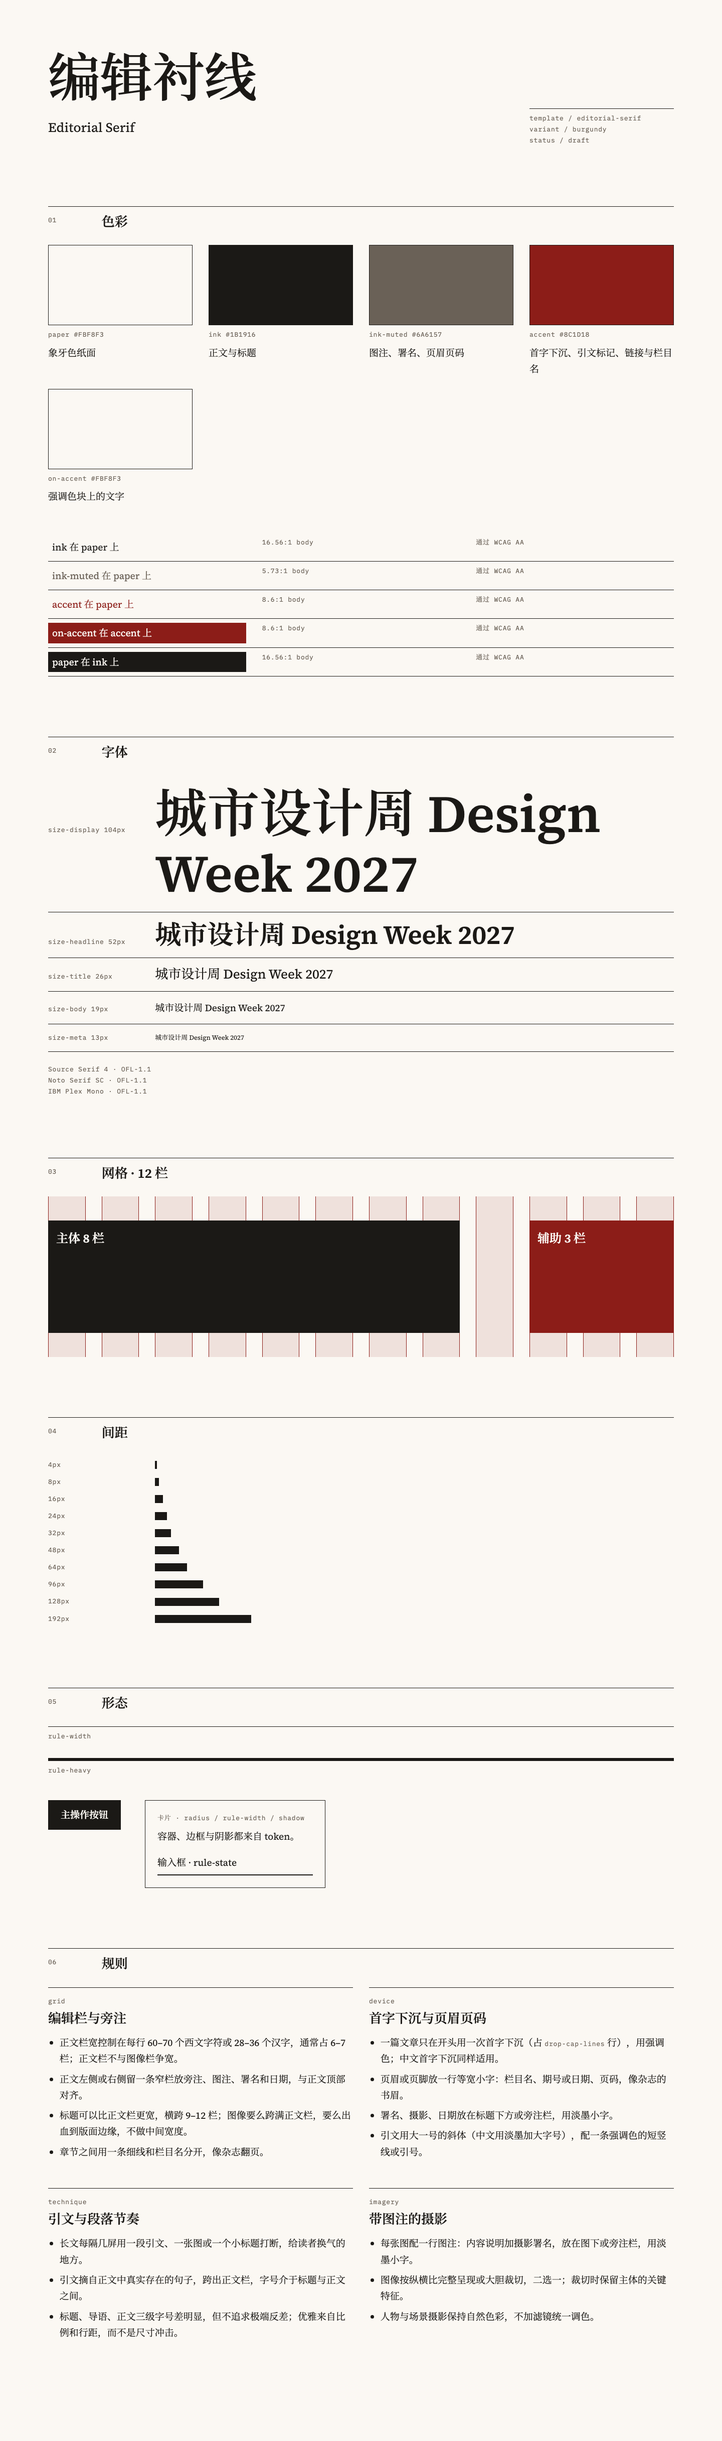
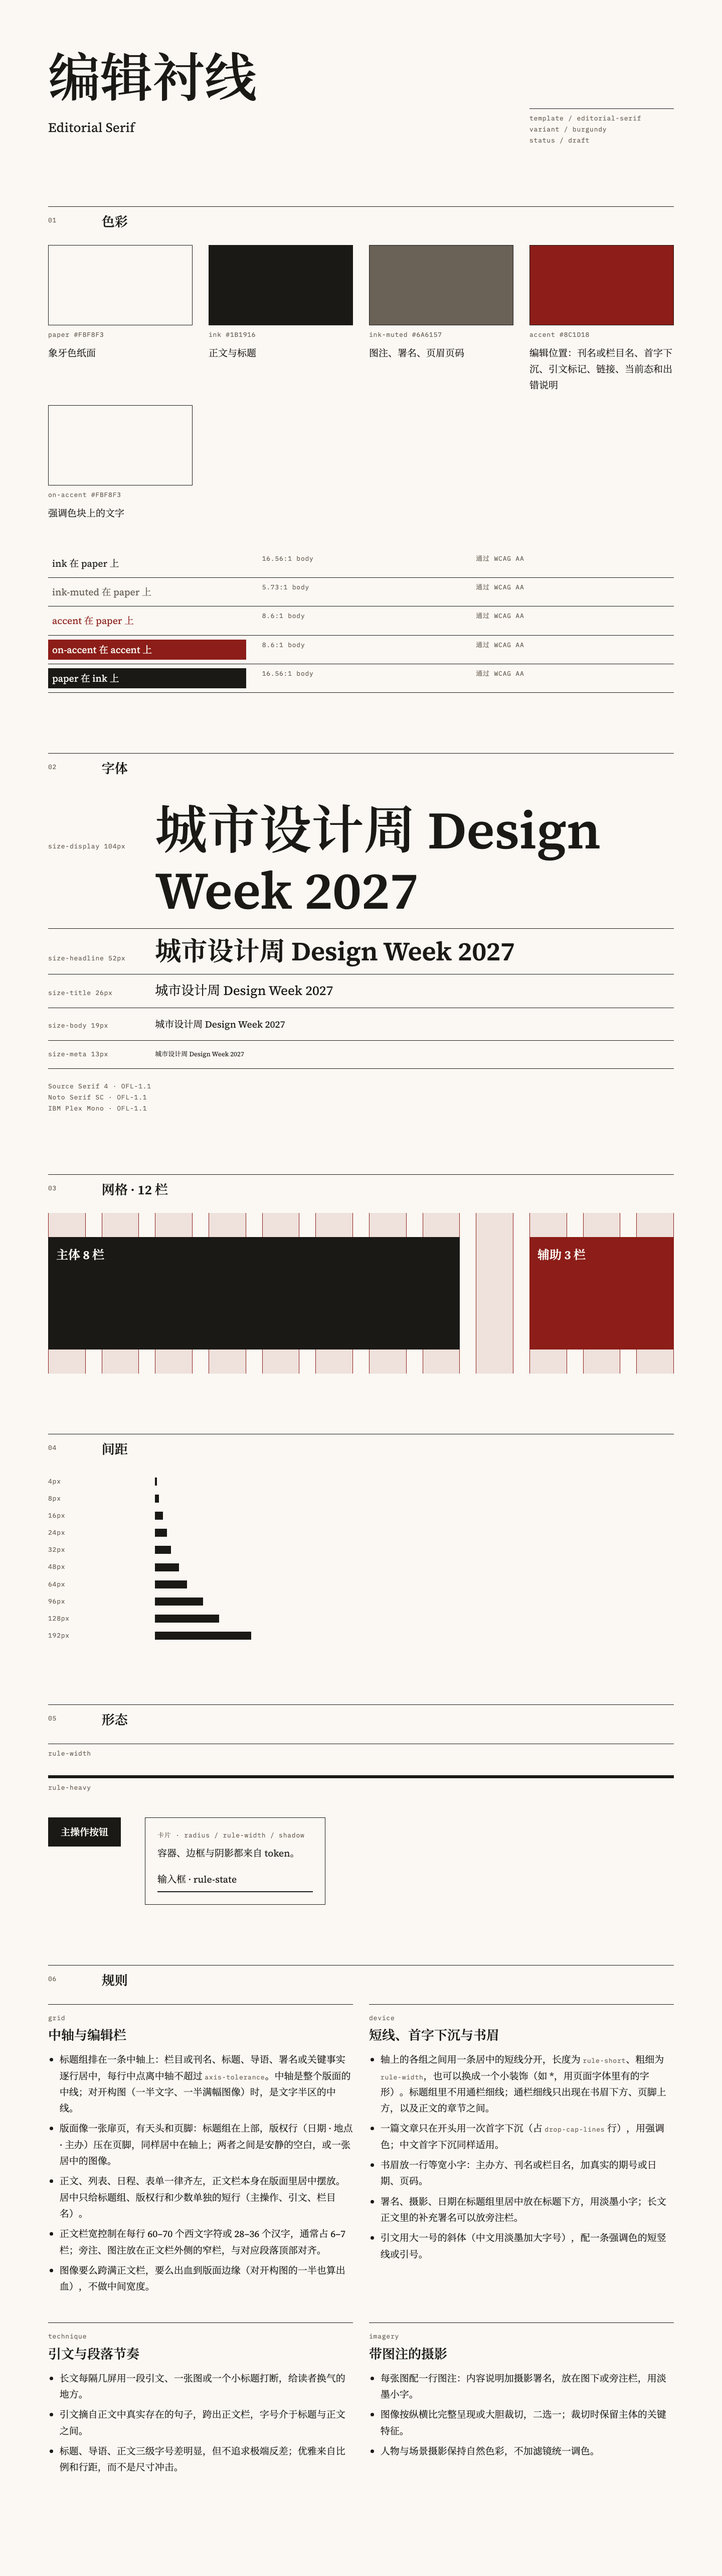
feat(musekit): give editorial-serif a centred title-page layout
With colour removed, the editorial posters and first screens matched
Neo-Swiss line for line: a flush-left title across the columns, a side
column of metadata and a ruled fact row at the foot. The style's
editorial devices only appeared in long text, which posters and first
screens do not have.

The layout now follows the classical title page, the axis the Swiss
tradition set itself against. The title group (title, deck, credit or
host) is centred line by line within axis-tolerance on the page axis,
or on the text half of a split spread. An imprint line of date and
place sits at the foot on the same axis. Short centred rules
(rule-short) separate the groups, with no full-width rules inside the
title group. Body text, lists, schedules and forms stay flush left in a
centred column, so the page never becomes a generic centred landing
page.

Titles use size-display, breaking onto at most three centred lines
instead of being stretched with fit. Posters carry no body text,
invented quotes or drop caps, and leave no image slot when there is no
photo. Accent positions are one shared list, focus and error states
look different, and the mobile line length and imprint wrapping are
spelled out. The grid seed declares conflicts with ma-interval,
index-and-rule and sticker-label, and an axis-led exemplar is added.

diff --git a/plugins/musekit/skills/musepool/library/templates/editorial-serif.md b/plugins/musekit/skills/musepool/library/templates/editorial-serif.md
@@ -44,25 +44,31 @@ overrides:
         size-headline: 32px
         size-title: 22px
         size-body: 18px
-exemplars: [B3LYgTWe, rvYJrbZh, G26LBSOO]
+exemplars: [C4aZtWoH, B3LYgTWe, rvYJrbZh, G26LBSOO]
 ---
 
 # 编辑衬线
 
 ## 精神
 
-像一本好杂志那样组织页面：标题有分量，正文好读，图像和图注各就其位。优雅来自比例、行距和衬线体的质感，而不是装饰。适合需要被认真阅读的内容：文化活动、出版物、研究报告、长篇叙事。
+像一本好杂志或一本书的扉页那样组织页面：标题组沿一条中轴排开，版权信息压在页脚，正文好读，图像和图注各就其位。优雅来自比例、行距和衬线体的质感，而不是装饰或极端尺寸。适合需要被认真阅读的内容：文化活动、出版物、研究报告、长篇叙事。编辑排版并不都居中；这里选中轴这一支，是因为它与齐左、不对称的瑞士传统分得开。
 
 ## 文法
 
-- **网格**：12 栏，正文栏宽 6–7 栏并控制行长，旁边留一条窄栏放旁注、图注与署名；标题可以比正文更宽。
-- **对齐**：标题与正文共享左边线；旁注与它对应的段落顶部对齐。
-- **层级**：标题、导语、正文三级清楚；导语用斜体（中文用淡墨与更大行距）；字重只用常规与半粗。
-- **留白**：段落之间用正常段距，章节之间用一条细线和栏目名，像翻页一样明确。
-- **色彩**：象牙纸面与近黑墨色承担阅读；强调色出现在固定的编辑位置：栏目名、首字下沉、引文标记、链接。
-- **装置**：首字下沉（每篇一次）、书眉式的页眉页码、署名行、引文。
-- **图像**：带图注的摄影，完整或大胆裁切二选一；没有照片时，用一段真实引文或目录占据图像的位置。
-- **状态**：表单像订阅卡：标签用小号等宽字，输入框只有底线；出错时底线加粗到 `rule-state`，下方写一行强调色说明；完成后用一段斜体的确认文字替换表单。
+版式有三条必须同时成立的规则，去掉颜色后，靠它们认出这个风格：
+
+1. **中轴标题组**：栏目或刊名、标题、导语、署名或关键事实逐行居中，每行中点离中轴不超过 `axis-tolerance`。
+2. **天头与页脚**：标题组在版面上部，版权行（日期 · 地点 · 主办）压在页脚，同在轴上。
+3. **短线分组**：轴上各组之间用长 `rule-short` 的居中短线或一个小装饰分开，标题组里没有通栏细线。
+
+- **网格**：中轴是整个版面的中线；对开构图（一半文字、一半满幅图像）时，是文字半区的中线。正文栏占 6–7 栏，在版面里居中摆放，旁注放在正文栏外侧的窄栏。
+- **对齐**：在轴上居中的只有这些：标题组、主操作（只有一个）、居中引文、章节开头的栏目名、完成态的确认文字和版权行。正文、列表、日程、表单一律齐左。书眉可以整行居中，也可以两端对齐。
+- **层级**：标题、导语、正文三级清楚；标题直接用 `size-display`，不用 `fit` 撑满栏宽；放不下时居中断成两行，两行仍放不下（约 14 个汉字以上）改用 `size-headline`，最多三行；导语用 `size-title` 的斜体（中文用淡墨与更大行距）；导语第一行是活动名时可以用墨色，其后的说明句用淡墨；字重只用常规与半粗。
+- **留白**：天头与页脚之间的空白是版面的一部分；段落之间用正常段距，章节之间用一条细线和居中的栏目名。
+- **色彩**：象牙纸面与近黑墨色承担阅读；强调色只出现在固定的编辑位置：刊名或栏目名、首字下沉、引文标记、链接、当前态和出错说明。标题保持墨色。海报只用一处，网页每屏（按视口高度计）最多两处。
+- **装置**：居中短线、书眉（主办方、刊名或栏目名，加真实的日期或期号，不重复标题）、署名行、首字下沉（只在长文开头用一次，海报不用）、引文。通栏细线的宽度是版心宽，即左右 `margin` 之间。
+- **图像**：带图注的摄影，完整或大胆裁切二选一；有照片时可以做对开构图，也可以把照片居中放在天头与页脚之间。没有照片时不留图像位。
+- **状态**：表单像订阅卡：标签用小号等宽字，输入框只有底线，表单本身齐左；聚焦时整个输入框加 `rule-state` 的墨色描边框；出错时底线加粗到 `rule-state`，下方写一行强调色说明，聚焦与出错因此形态不同；完成后用一段居中的斜体确认文字替换表单。
 
 ## 场景适配
 
@@ -70,30 +76,31 @@ exemplars: [B3LYgTWe, rvYJrbZh, G26LBSOO]
 
 海报、封面、社媒图。覆盖值按 1080 × 1440 的画布给出（`canvas-width`、`canvas-height`）。
 
-- 版面像杂志封面：顶部一行书眉（刊名或活动名、期号或日期），标题占据上半部分并可以比正文宽，导语用斜体紧跟其后。
-- 有摄影时，图像占画面一半以上，标题叠在图像安静的区域或放在图像下方；没有摄影时，标题与一段真实引文承担画面。
-- 日期、地点、主办方排在底部的一行或两行等宽小字里，上方一条细线。
-- 强调色只用在刊名、首字或一个关键词上。
-- 标题字号直接用 `size-display`，不用 `fit` 撑满栏宽；编辑风格的分量来自比例和留白，不来自极端尺寸。
+- 版面是一张扉页：顶部一行书眉（主办方或栏目名，加真实的日期或期号），下方一条通栏细线；标题组的中心落在画布高度的三分之一到一半之间，沿画布中轴排开：标题、短线、斜体导语、短线、主办或署名。
+- 页脚一行版权信息，居中，上方一条通栏细线：日期 · 地点；标题组里没有主办时，加上主办。同一条事实不在书眉、标题组和页脚重复出现。版权行用 `font-mono`，其中的中文回退到宋体，这是预期的。社媒图在手机上约按 0.35 倍显示，所以海报的书眉和版权行用 `size-body`，不用 `size-meta`。
+- 有照片时，照片跨满正文栏宽、居中放在标题组与页脚之间，配一行居中图注；或者做对开构图：照片占一半出血，标题组和页脚沿另一半的中轴排。
+- 没有照片时，标题组与页脚之间是空白，不放占位图；有用户提供的原文时，可以在空白中部居中放一句引文。
+- 海报不排正文段落，也不用首字下沉。强调色只用在书眉的刊名或主办方一处。
 
 ### web
 
 官网、出版物、文章页。参照视口 1440 × 900px。
 
-- 首屏：书眉式导航（站名在左，栏目链接在右，一行小字），标题用 `size-display`，占 9–10 栏的宽度范围，下方斜体导语和署名行；关键日期与地点放在旁注栏。
-- 正文页：正文栏 6–7 栏居左或略偏左，旁注栏在右；首字下沉一次；每隔几屏用引文或图像打断。
-- 列表（日程、文章目录）用细线分隔的行：标题衬线体，日期与分类等宽小字。
-- 首屏以下像翻杂志：每一章以「细线 + 栏目名」开头，交替使用三种版式——正文加旁注、通栏引文、两栏目录或日程，避免一节接一节的同一种长页。
-- 主操作用墨底纸字按钮或强调色文字链接加下划线，不用圆角胶囊。
-- 1100px 以下：旁注栏收窄为 3 栏，首屏旁注仍在右侧，保证首屏能看到日期和主操作。
-- 窄屏退为 4 栏：首屏旁注里的日期、地点和主操作移到标题与导语之下，仍在首屏内；正文里的旁注移到对应段落之后；正文字号保持 18px 以上（`mobile` 断点给出）。
+- 书眉式导航：站名居中，栏目链接排在站名下方一行，或分在站名两侧，下方一条通栏细线。
+- 首屏是一张扉页：标题组沿页面中轴排开（栏目、标题、短线、斜体导语、署名），主操作只有一个，居中放在标题组下方：页面有表单时是跳到表单的墨底纸字按钮，否则是一个带下划线的强调色文字链接；首屏底部一行居中的版权行（日期 · 地点 · 主办）。有照片时可以做对开构图，标题组和版权行沿文字半区的中轴排。
+- 首屏以下像翻书：每一章以「通栏细线 + 居中的栏目名 + 短线」开头，章节内容齐左排在居中的正文栏里；按已有的内容交替使用三种版式：正文加旁注、居中的通栏引文、两栏目录或日程。没有原文就不排引文，没有日程就不排日程，不为凑版式编内容。
+- 列表（日程、文章目录）用细线分隔的行，齐左：标题衬线体，日期与分类等宽小字。
+- 表单齐左排在正文栏里，完成态居中。
+- 1100px 以下：正文栏放宽到 8 栏，仍居中，旁注移到对应段落之前；标题组和版权行保持在中轴上。
+- 窄屏退为 4 栏：正文栏跨满 4 栏，行长以正文字号不小于 18px 为先，不再要求每行 28 字；版权行可以按事实断成最多三行，仍居中；标题组仍沿中轴居中，标题按 `mobile` 断点缩小、可以断成两到三行；对开构图改为照片在上、标题组在下；正文字号保持 18px 以上。
 
 ## 常见误用
 
-只把字体换成衬线体、其余仍是卡片网格和圆角按钮，不是编辑风格；正文行长过宽、行距过紧会让「优雅」变成难读；处处用强调色、到处首字下沉会显得廉价。判断方法：去掉颜色后，仍应能看出清楚的标题、导语、正文三级和像杂志一样的栏位。
+最常见的退化有两种。一是只换成衬线字体，标题仍然齐左跨栏、右侧放旁注栏和元数据，去色后就是新瑞士。二是把一切居中，包括正文、列表和按钮堆，变成通用的居中营销页，也难读。处处用强调色、到处首字下沉会显得廉价。判断方法：去掉颜色后，仍应能看出一条中轴上的标题组、页脚的版权行和组间的短线；正文仍然齐左。
 
 ## 范例
 
-- `B3LYgTWe` 艺术中心：暖奶油底色上的衬线大标题，8/4 栏的不对称主栏与侧栏。看它怎样用衬线体同时承担标题与正文。
-- `rvYJrbZh` 艺术家作品集：粗斜体标题加正文的连续文字流，像在读一份宣言。看它怎样只靠排印建立层级。
-- `G26LBSOO` 研究报告：Didone 衬线展示字、编号章节和整块的强调色。看它怎样把编辑排版用于研究内容。
+- `C4aZtWoH` 艺术学院展览：视力表式的居中字号阶梯，配衬线正文和斜体标签。借它沿中轴递减的字号层级；它的展示字是无衬线，不借。
+- `B3LYgTWe` 艺术中心：暖奶油底色上的衬线大标题，8/4 栏的不对称主栏与侧栏。借它长文里正文栏与侧栏的关系；它的首屏是齐左构图，不借。
+- `rvYJrbZh` 艺术家作品集：粗斜体标题加正文的连续文字流，像在读一份宣言。借它只靠排印建立层级的做法。
+- `G26LBSOO` 研究报告：Didone 衬线展示字、编号章节和整块的强调色。借它把编辑排版用于研究内容的章节组织；整块强调色不借。

diff --git a/plugins/musekit/skills/musepool/library/seeds/grid/editorial-columns.md b/plugins/musekit/skills/musepool/library/seeds/grid/editorial-columns.md
@@ -2,11 +2,11 @@
 id: editorial-columns
 category: grid
 nature: rule
-name: 编辑栏与旁注
+name: 中轴与编辑栏
 status: draft
 scenes: [graphic, web, slides, data]
 affinity: [editorial-serif, editorial]
-conflicts: []
+conflicts: [ma-interval, index-and-rule, sticker-label]
 tokens:
   canvas-width:
     value: 1440px
@@ -20,17 +20,21 @@ tokens:
     value: 32px
   margin:
     value: 96px
+  axis-tolerance:
+    value: 0.02
+    role: 轴上每一行的中点离所在版面中轴的最大偏差，按版面宽度计
 ---
 
-# 编辑栏与旁注
+# 中轴与编辑栏
 
 ## 要点
 
-- 正文栏宽控制在每行 60–70 个西文字符或 28–36 个汉字，通常占 6–7 栏；正文栏不与图像栏争宽。
-- 正文左侧或右侧留一条窄栏放旁注、图注、署名和日期，与正文顶部对齐。
-- 标题可以比正文栏更宽，横跨 9–12 栏；图像要么跨满正文栏，要么出血到版面边缘，不做中间宽度。
-- 章节之间用一条细线和栏目名分开，像杂志翻页。
+- 标题组排在一条中轴上：栏目或刊名、标题、导语、署名或关键事实逐行居中，每行中点离中轴不超过 `axis-tolerance`。中轴是整个版面的中线；对开构图（一半文字、一半满幅图像）时，是文字半区的中线。
+- 版面像一张扉页，有天头和页脚：标题组在上部，版权行（日期 · 地点 · 主办）压在页脚，同样居中在轴上；两者之间是安静的空白，或一张居中的图像。
+- 正文、列表、日程、表单一律齐左，正文栏本身在版面里居中摆放。居中只给标题组、版权行和少数单独的短行（主操作、引文、栏目名）。
+- 正文栏宽控制在每行 60–70 个西文字符或 28–36 个汉字，通常占 6–7 栏；旁注、图注放在正文栏外侧的窄栏，与对应段落顶部对齐。
+- 图像要么跨满正文栏，要么出血到版面边缘（对开构图的一半也算出血），不做中间宽度。
 
 ## 适用与边界
 
-需要并排比较的内容（日程、价格）可以打破正文栏宽，但仍对齐到栏线上。
+居中只给短行：每一组不超过三行，超过三行的文字不居中。需要并排比较的内容（日程、价格）可以打破正文栏宽，但仍对齐到栏线上。海报和首屏不排正文段落，只有标题组和版权行。

diff --git a/plugins/musekit/skills/musepool/library/seeds/device/drop-cap-and-folio.md b/plugins/musekit/skills/musepool/library/seeds/device/drop-cap-and-folio.md
@@ -2,7 +2,7 @@
 id: drop-cap-and-folio
 category: device
 nature: rule
-name: 首字下沉与页眉页码
+name: 短线、首字下沉与书眉
 status: draft
 scenes: [graphic, web, slides]
 affinity: [editorial-serif]
@@ -11,15 +11,19 @@ tokens:
   drop-cap-lines:
     value: 3
     role: 首字下沉占几行
+  rule-short:
+    value: 48px
+    role: 轴上分组用的居中短线长度
 ---
 
-# 首字下沉与页眉页码
+# 短线、首字下沉与书眉
 
 ## 要点
 
+- 轴上的各组之间用一条居中的短线分开，长度为 `rule-short`、粗细为 `rule-width`，也可以换成一个小装饰（如 *，用页面字体里有的字形）。标题组里不用通栏细线；通栏细线只出现在书眉下方、页脚上方，以及正文的章节之间。
 - 一篇文章只在开头用一次首字下沉（占 `drop-cap-lines` 行），用强调色；中文首字下沉同样适用。
-- 页眉或页脚放一行等宽小字：栏目名、期号或日期、页码，像杂志的书眉。
-- 署名、摄影、日期放在标题下方或旁注栏，用淡墨小字。
+- 书眉放一行等宽小字：主办方、刊名或栏目名，加真实的期号或日期、页码。
+- 署名、摄影、日期在标题组里居中放在标题下方，用淡墨小字；长文正文里的补充署名可以放旁注栏。
 - 引文用大一号的斜体（中文用淡墨加大字号），配一条强调色的短竖线或引号。
 
 ## 适用与边界

diff --git a/plugins/musekit/skills/musepool/library/seeds/color/ivory-burgundy.md b/plugins/musekit/skills/musepool/library/seeds/color/ivory-burgundy.md
@@ -19,7 +19,7 @@ tokens:
     role: 图注、署名、页眉页码
   accent:
     value: "#8C1D18"
-    role: 首字下沉、引文标记、链接与栏目名
+    role: 编辑位置：刊名或栏目名、首字下沉、引文标记、链接、当前态和出错说明
   on-accent:
     value: "#FBF8F3"
     role: 强调色块上的文字
@@ -41,7 +41,7 @@ pairs:
 ## 要点
 
 - 暖白纸面与近黑墨色承担全部阅读；强调色是一种深而沉的颜色，可以用在正文大小的文字上（栏目名、链接、首字下沉）。
-- 强调色在一页里出现在几个固定的「编辑位置」上，而不是随意点缀：栏目名、首字、引文标记、当前态。
+- 强调色在一页里出现在几个固定的「编辑位置」上，而不是随意点缀：刊名或栏目名、首字下沉、引文标记、链接、当前态和出错说明。
 - 酒红偏文学与文化；森林绿偏自然、城市与研究。
 
 ## 适用与边界

diff --git a/plugins/musekit/skills/musepool/library/seeds/typography/serif-editorial.md b/plugins/musekit/skills/musepool/library/seeds/typography/serif-editorial.md
@@ -58,8 +58,8 @@ tokens:
 ## 要点
 
 - 标题与正文都用衬线体，中文用宋体；层级靠字号、斜体和留白，而不是换字体家族。
-- 导语（deck）用正文字号放大一级的斜体；中文没有斜体，改用淡墨与更大的行距区分。
-- 正文字号比一般网页大一号（19px），行距 1.7，适合长时间阅读。
+- 导语（deck）用 `size-title` 的斜体；中文没有斜体，改用淡墨与 `leading-body` 的行距区分，并设 `font-synthesis: none`，不让浏览器把宋体硬倾斜。
+- 正文字号比一般网页大一号（`size-body`），行距 1.7，适合长时间阅读。
 - 日期、页码和栏目名用等宽小字，与衬线正文形成质感对比。
 
 ## 适用与边界

diff --git a/plugins/musekit/skills/musepool/library/seeds/imagery/captioned-photo.md b/plugins/musekit/skills/musepool/library/seeds/imagery/captioned-photo.md
@@ -19,4 +19,4 @@ conflicts: []
 
 ## 适用与边界
 
-图注写真实信息；没有署名信息时写「图片：待补」，不编造摄影师。没有照片时，用一段真实引文、目录或大号的期号与日期占据图像的位置，不用占位图。
+图注写真实信息；没有署名信息时写「图片：待补」，不编造摄影师。没有照片时，不留图像位：标题组在天头，版权行在页脚，中间的空白就是版面的呼吸；有用户提供的原文时，可以在空白中部居中放一句引文。不用占位图。

diff --git a/plugins/musekit/skills/musepool/library/seeds/technique/pull-quote-rhythm.md b/plugins/musekit/skills/musepool/library/seeds/technique/pull-quote-rhythm.md
@@ -19,4 +19,4 @@ conflicts: []
 
 ## 适用与边界
 
-引文只能引用原文，不改写、不编造。短内容（海报、卡片）只保留标题、导语与一处引文，不硬造长文节奏。
+引文只能引用原文，不改写、不编造。短内容（海报、卡片）只保留标题组与版权行；有用户提供的原文时才加一处引文，不硬造长文节奏。
